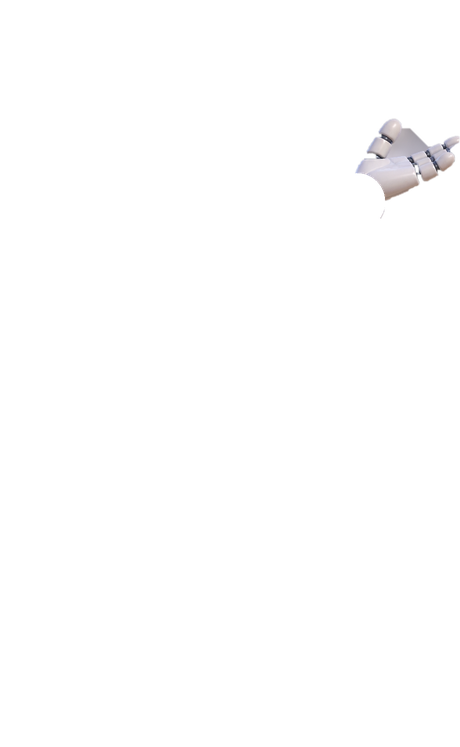
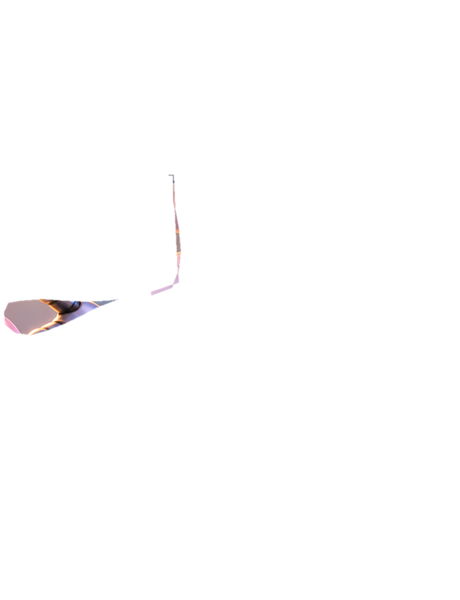
AURI: recorte milimétrico em polígono preciso, pivôs anatômicos corretos, × abaixo dos pés, cache v80
- Novo recorte por polígono manual traçado sobre o personagem original 1254×1254px
- Layers 460×600px: cabeça, braço esquerdo estendido, corpo+braço direito
- Pivô cabeça (pescoço): 55.5% 26%  |  Pivô braço: 35.9% 41.7%
- Widget 132×172px (proporção correta 460:600)
- Botão × reposicionado para rodapé do widget (bottom:-8px) fora do balão de dica
- auriPiscar alinhado com visor/olhos do novo robô (16% 16% 52% 10%)
- auriBalão sobe para bottom:100px conforme nova altura do widget

Claude-Session: https://claude.ai/code/session_01NJSJr74fXF91YuBQ82rs6b

diff --git a/index.html b/index.html
@@ -6818,18 +6818,18 @@ if ('serviceWorker' in navigator) {
 #auriWrap{position:fixed;left:8px;bottom:calc(var(--bottomnav-h) + 4px);width:132px;z-index:250;
   -webkit-tap-highlight-color:transparent}
 #auriWrap.auri-hidden{display:none}
-#auriFig{position:relative;width:132px;height:214px;cursor:pointer;background:none;border:none;padding:0;display:block;
+#auriFig{position:relative;width:132px;height:172px;cursor:pointer;background:none;border:none;padding:0;display:block;
   animation:auriFlutua 4.2s ease-in-out infinite;filter:drop-shadow(0 12px 14px rgba(13,31,45,.28))}
 #auriFig.auri-pop{animation:auriPop .5s ease}
 #auriFig img{position:absolute;inset:0;width:100%;height:auto;display:block;pointer-events:none;user-select:none}
-#auriFig .auri-cabeca{transform-origin:29.7% 23.5%;animation:auriCabeca 5.4s ease-in-out infinite}
-#auriFig .auri-braco{transform-origin:77.5% 27%;animation:auriAcena 2.2s ease-in-out infinite}
-#auriPiscar{position:absolute;left:8%;top:9%;width:44%;height:9%;background:#0b1118;border-radius:50%;
+#auriFig .auri-cabeca{transform-origin:55.5% 26%;animation:auriCabeca 5.4s ease-in-out infinite}
+#auriFig .auri-braco{transform-origin:35.9% 41.7%;animation:auriAcena 2.2s ease-in-out infinite}
+#auriPiscar{position:absolute;left:16%;top:16%;width:52%;height:10%;background:#0b1118;border-radius:50%;
   opacity:0;transition:opacity .08s;pointer-events:none}
 #auriPiscar.on{opacity:.92}
 #auriSombra{position:absolute;left:18%;bottom:-6px;width:64%;height:12px;border-radius:50%;
   background:radial-gradient(ellipse,rgba(13,31,45,.5),transparent 70%);animation:auriSombra 4.2s ease-in-out infinite}
-#auriBalao{position:absolute;left:112px;bottom:132px;width:min(224px,54vw);background:#fff;color:var(--navy);
+#auriBalao{position:absolute;left:112px;bottom:100px;width:min(224px,54vw);background:#fff;color:var(--navy);
   border:2.5px solid var(--navy);border-radius:16px;padding:10px 12px;font-size:11.6px;line-height:1.45;font-weight:600;
   box-shadow:4px 5px 0 rgba(13,31,45,.18);animation:auriBalao .45s cubic-bezier(.34,1.56,.64,1);z-index:2}
 #auriBalao b{color:var(--teal-mid);display:block;font-size:10px;letter-spacing:.5px;text-transform:uppercase;margin-bottom:2px}
@@ -6837,14 +6837,14 @@ if ('serviceWorker' in navigator) {
   border:7px solid transparent;border-right-color:var(--navy)}
 #auriBalao::before{content:'';position:absolute;left:-9px;bottom:16px;width:0;height:0;z-index:1;
   border:7px solid transparent;border-right-color:#fff}
-#auriFechar{position:absolute;right:-2px;top:-4px;width:24px;height:24px;border-radius:50%;border:2px solid #fff;
+#auriFechar{position:absolute;right:-10px;bottom:-8px;width:22px;height:22px;border-radius:50%;border:2px solid #fff;
   background:var(--navy);color:#fff;font-size:14px;line-height:1;cursor:pointer;z-index:3;padding:0;
   box-shadow:0 3px 8px rgba(13,31,45,.35)}
 #auriReabrir{position:fixed;left:10px;bottom:calc(var(--bottomnav-h) + 10px);width:42px;height:42px;border-radius:50%;
   border:2px solid #fff;background:var(--navy);color:#fff;font-size:19px;cursor:pointer;z-index:250;display:none;
   box-shadow:0 6px 16px rgba(13,31,45,.3)}
 #auriReabrir.on{display:block}
-@media(max-width:380px){#auriWrap,#auriFig{width:112px}#auriFig{height:182px}#auriBalao{left:94px;bottom:112px}}
+@media(max-width:380px){#auriWrap,#auriFig{width:112px}#auriFig{height:146px}#auriBalao{left:94px;bottom:112px}}
 @media(prefers-reduced-motion:reduce){#auriFig,#auriFig .auri-cabeca,#auriFig .auri-braco,#auriSombra{animation:none}}
 .chat-avatar{width:30px;height:30px;border-radius:50%;object-fit:cover;border:2px solid rgba(255,255,255,.75);flex-shrink:0}
 .chat-hdr-l{display:flex;align-items:center;gap:9px}

diff --git a/sw.js b/sw.js
@@ -1,5 +1,5 @@
 // Rede primeiro: sempre entrega a versão publicada mais nova; o cache só é usado offline.
-const CACHE = 'hub-alergista-v91';
+const CACHE = 'hub-alergista-v92';
 const ASSETS = ['./', 'index.html', 'uas7-paciente.html', 'manifest.json', 'icon-192.png', 'icon-512.png'];
 
 self.addEventListener('install', e => {
